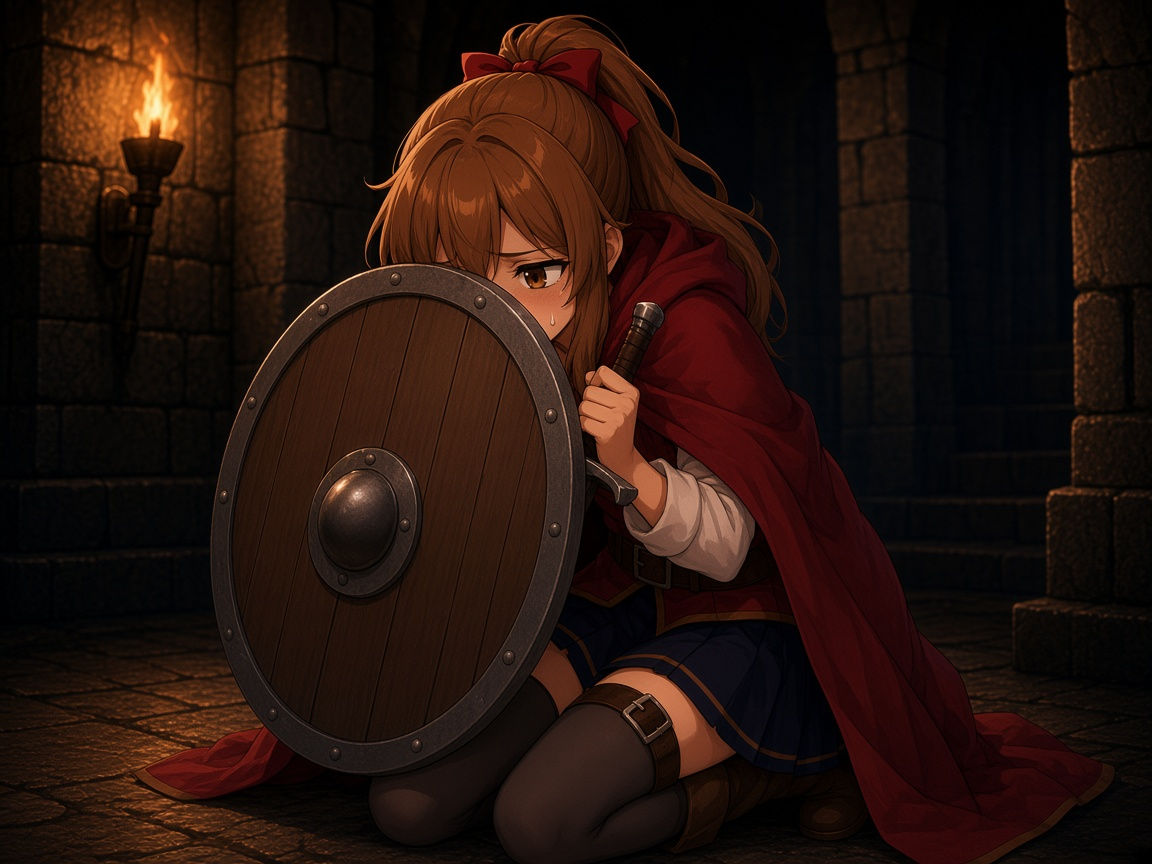
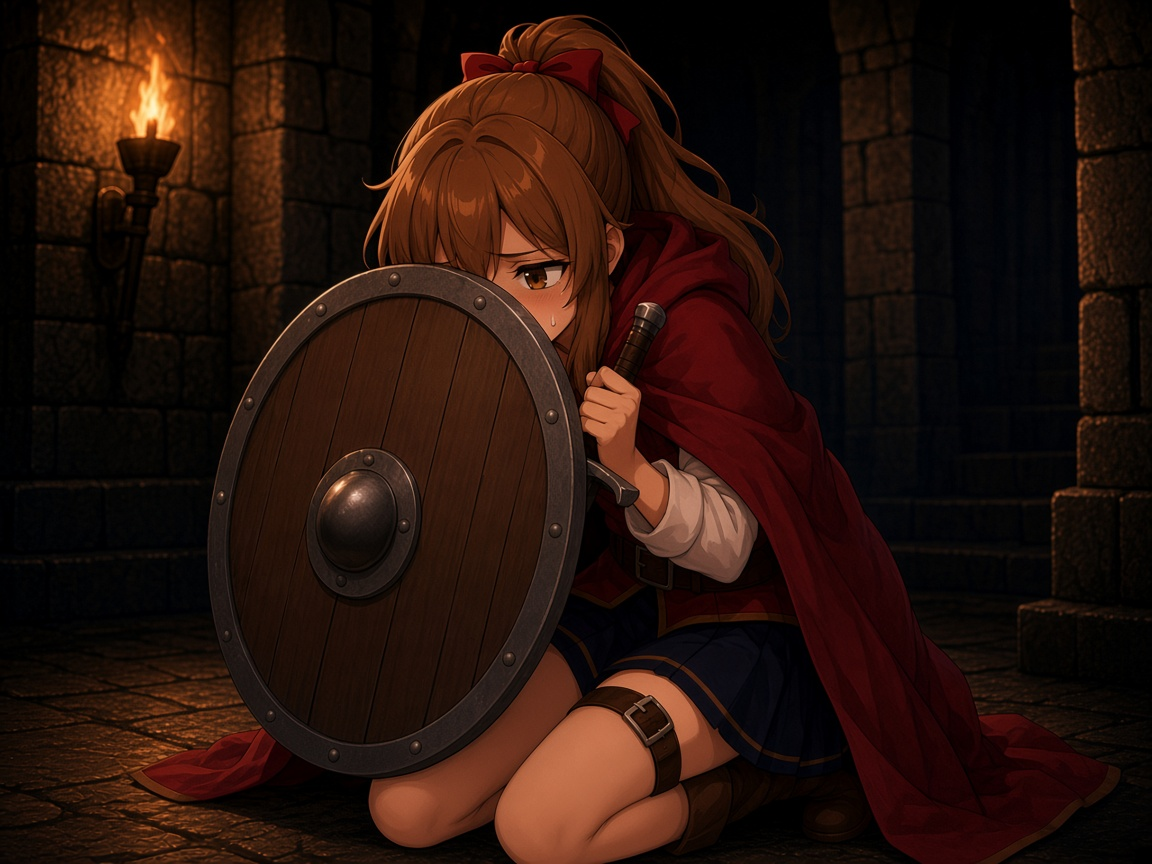
臆病者の構えからタイツを外す。

diff --git a/index.html b/index.html
@@ -7378,7 +7378,7 @@
       捨て身の一撃: "card-sacrifice.jpg?v=1",
       怒り: "card-anger.jpg?v=3",
       パリィスラッシュ: "card-parry-slash.jpg?v=1",
-      臆病者の構え: "card-coward.jpg?v=1",
+      臆病者の構え: "card-coward.jpg?v=2",
       ライフフルネスアタック: "card-lifefull.jpg?v=2",
       ジャストミート: "card-justmeat.jpg?v=1",
       余裕の構え: "card-poise.jpg?v=1",
